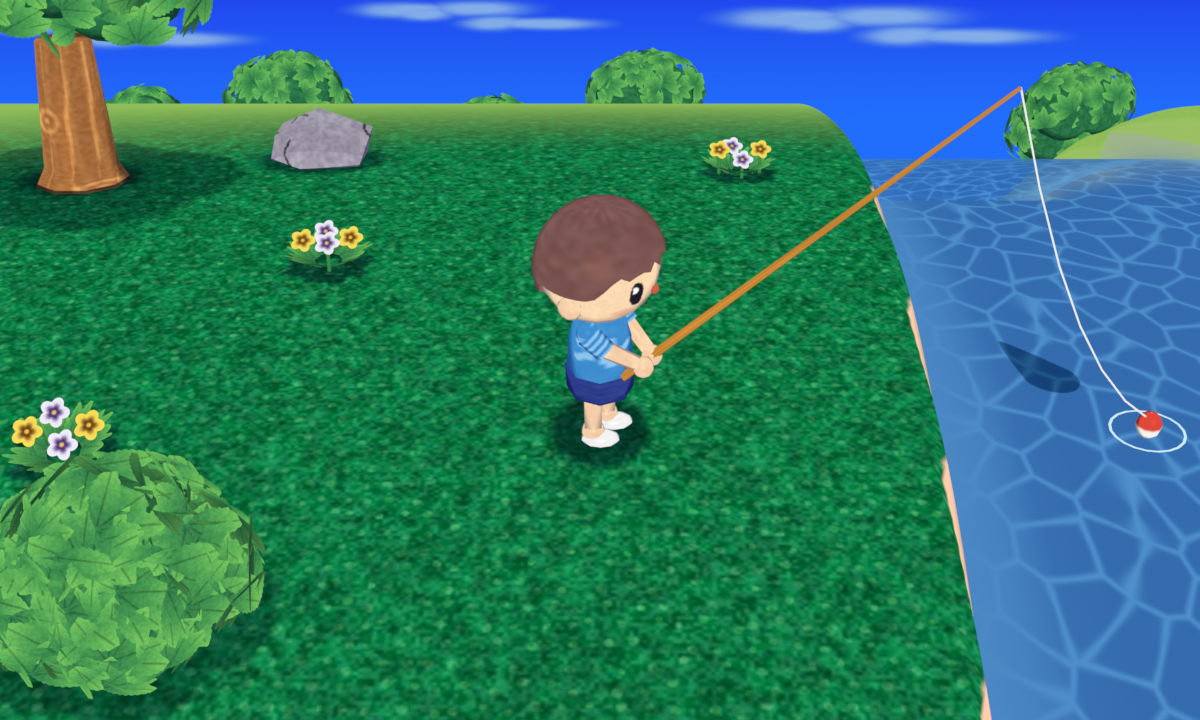
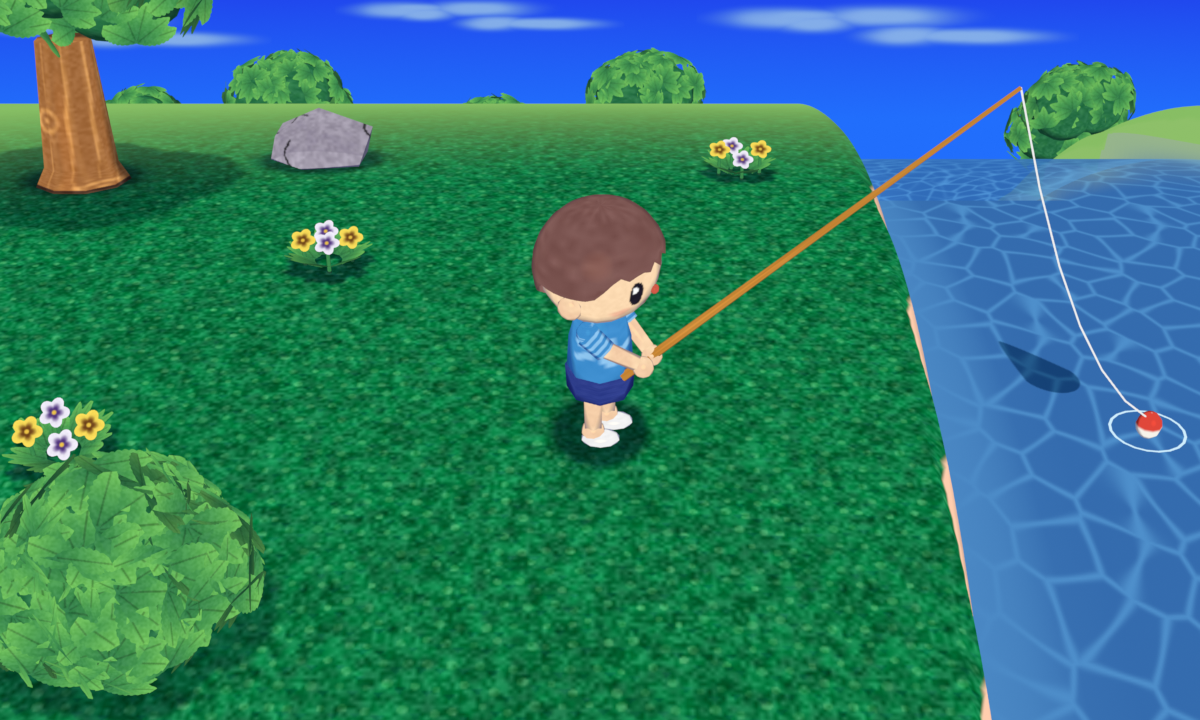
Town test scene: slightly more haze in a colour matched to the darker grass
Claude-Session: https://claude.ai/code/session_017uV2ZEHp81Umsc7vn6nowa

Changed region(s): [[0.3083, 0.1833, 0.7092, 0.2444], [0.1542, 0.1833, 0.2467, 0.2444]]

diff --git a/style_test_town/town_river_test.py b/style_test_town/town_river_test.py
@@ -83,7 +83,7 @@ PAL = {
     "grass": "#0D7541", "grass_dark": "#026637", "grass_light": "#3E9A5C", "grass_print": "#005A3D",
     # M 16.3: spring and summer near grass (#026637 to #107442), darker print p10 #005A3D; round dot motif (by eye,
     # S#1341, 1246, 1351), dot colour E. Haze target between the measured far bands #94CC78 and #B5E36B.
-    "haze": "#9FCE60",                               # original haze target (user's retail capture far ground)
+    "haze": "#8EC668",                               # between the measured retail far ground #88BF68 and #94CC78 (16.3), suits the darker grass
     "cliff_lit": "#FFCEAE", "cliff_shade": "#BA8B8B",                   # M section 4.2
     "water": "#316BAF", "water_shallow": "#5AA2DD", "foam": "#ECF2F8",  # M 16.4: river #316BAF, shallow band, foam line
     "foliage": "#4A9C52", "foliage_dark": "#287046", "foliage_light": "#82D362",  # M section 7.3
@@ -217,9 +217,9 @@ _FAR = tangent_distance(LOG_R, CAM_H, CAM_D)
 # Haze: the ORIGINAL setting (user's choice): ground only, from halfway between the feet and the visible ground edge
 # to the edge, mixed up to 0.8 toward #9FCE60. (The section 16.3 tuned variant reached a 2.12 far over near ratio.)
 _NEAR = math.hypot(CAM_D, CAM_H)
-HAZE_NEAR = _NEAR + 0.5 * (_FAR - _NEAR)
+HAZE_NEAR = _NEAR + 0.4 * (_FAR - _NEAR)          # original 0.5, starts slightly nearer (user: slightly more haze)
 HAZE_FAR = _FAR
-HAZE_MAX = 0.8
+HAZE_MAX = 0.9                                         # original 0.8, nudged up slightly (user)
 
 
 def bend_array(co):

diff --git a/style_blueprint/BLUEPRINT.md b/style_blueprint/BLUEPRINT.md
@@ -1348,3 +1348,6 @@ where a 240 row figure is quoted):
   flat quad sinks under the rolling log ground in its middle (sagitta L^2 / 8R, about 0.05 P for 2.2 P at R 13 P)
   and disappears. Render QA: flower clump south edge 0.78 (target 0.68), near tree south edge 0.67 (target 0.77 to
   0.84 at the rim, darker inside). Player and rock keep round blobs.
+* Haze nudge after the darker 16.3 grass (user): colour #8EC668 (between the measured retail far ground #88BF68 and
+  #94CC78) instead of the lime #9FCE60, start at 0.4 of the way from the feet to the visible ground edge (was 0.5),
+  maximum mix 0.9 (was 0.8). Ground only pass ratio 1.38 (was 1.26).
